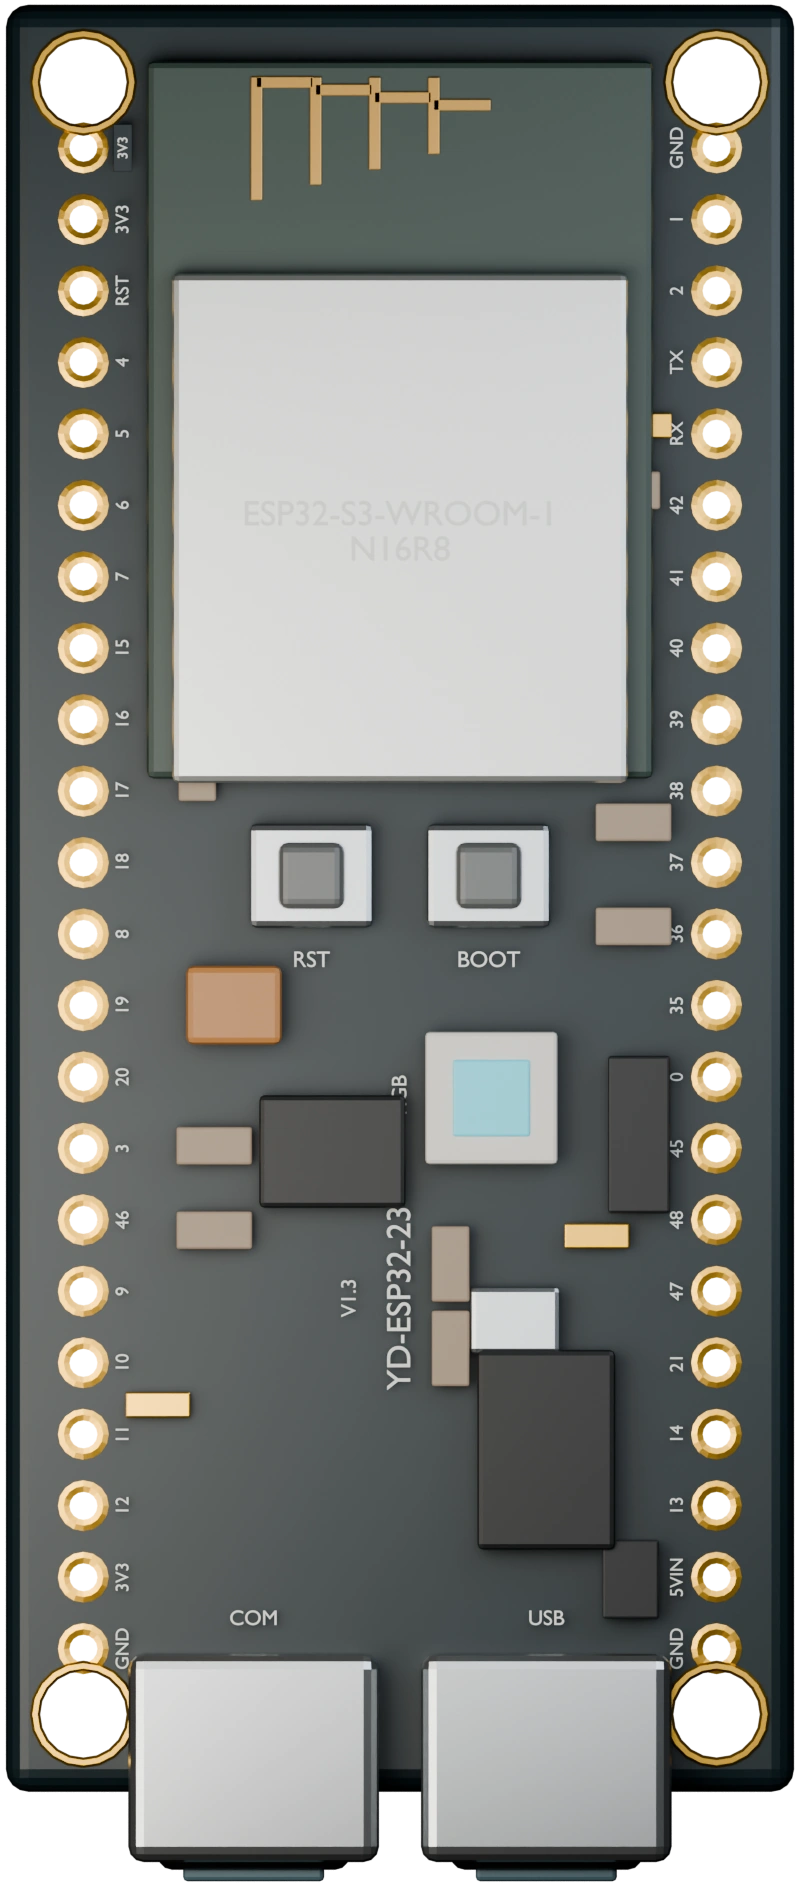
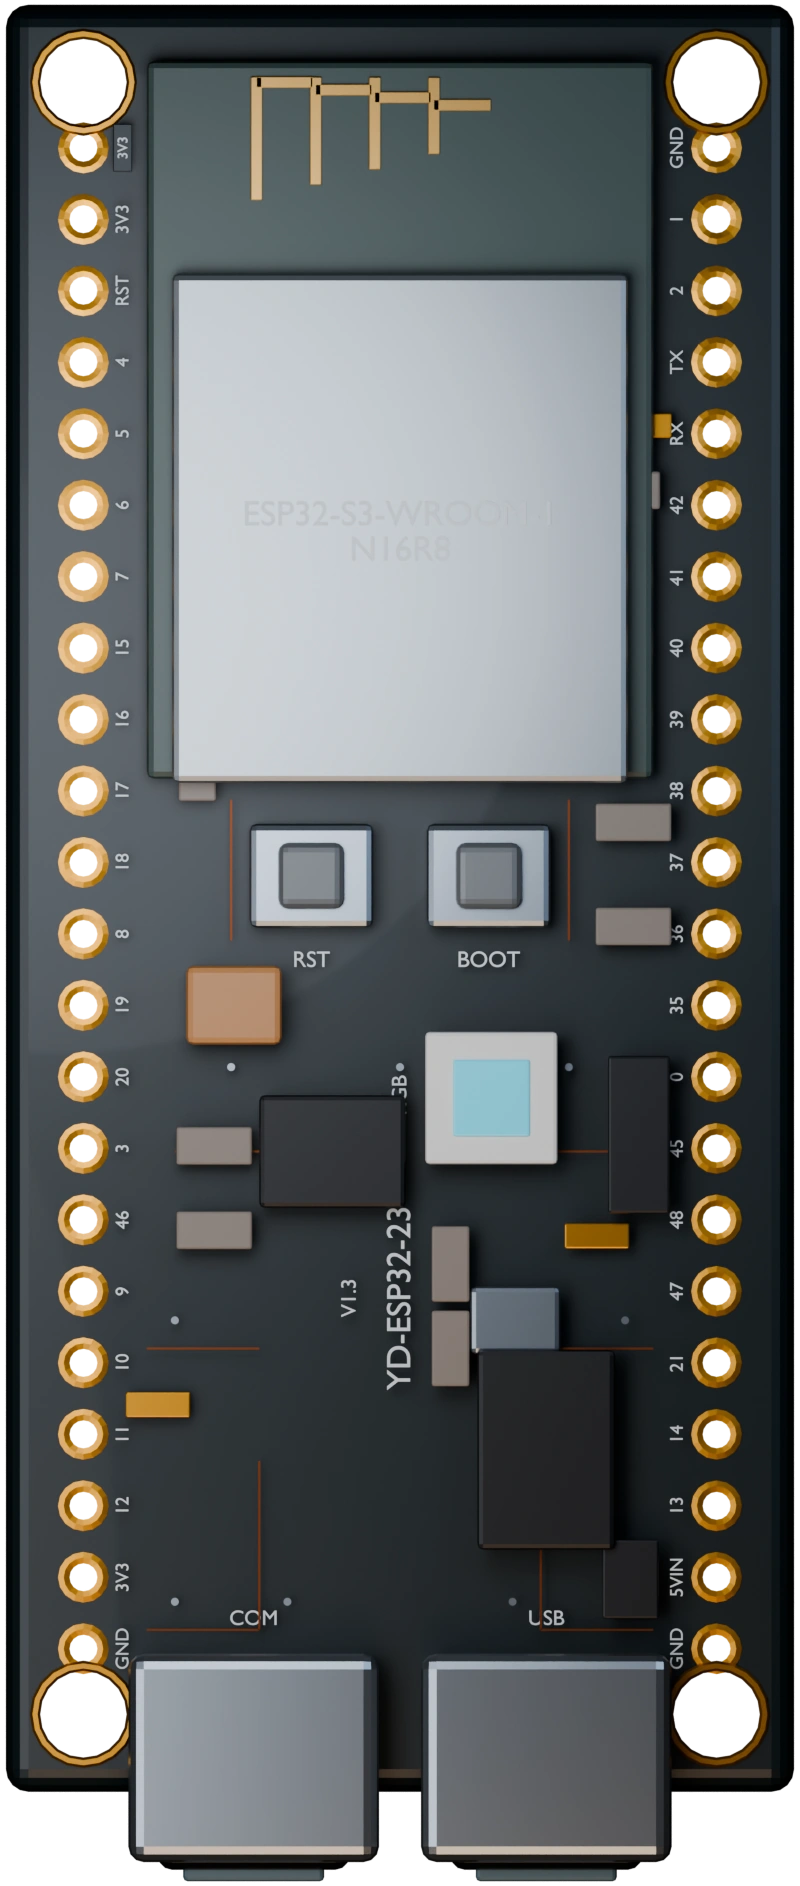
swap in the improved N16R8 and XIAO renders
Both re-renders move the rail labels clear of the plated holes, which
were clipping them — the XIAO showed "D" for D8/D9/D10 and "3V" for 3V3.
The ESP-32D and S3-DevKitC renders are unchanged and untouched.

The N16R8 package now carries pixel geometry projected from the model's
own 2.54 mm pad grid through the render camera, rather than detected from
pixels, so it replaces the values measured here: rail centres now land
symmetric to four decimal places and the USB mouth centre is 82 px from
where the shell's bottom edge had put it.

imageWidthMm is now derived identically for all four boards — visible
width over the render's alpha bounds — so relative sizes stay honest. The
XIAO moves onto that footing, and its profile dimensions are corrected to
Seeed's 21.0 x 17.8 mm; the stored 21 x 18 had the across-rails figure
rounded from the wrong axis.

diff --git a/src/components/BuildDiagram/PhysicalAssemblyDiagram.tsx b/src/components/BuildDiagram/PhysicalAssemblyDiagram.tsx
@@ -122,8 +122,11 @@ interface ControllerRenderSpec {
    *
    * This is what sizes the board on the sheet, so a XIAO and a Mega no longer
    * draw the same width on a diagram whose whole job is physical assembly.
-   * Derive it from the board's PCB width and the render's alpha bounds:
-   * `pcbWidthMm * imageWidthPx / alphaContentWidthPx`.
+   * Derive it the same way for every board so the relative sizes stay honest:
+   * `visibleWidthMm * imageWidthPx / alphaContentWidthPx`, where the visible
+   * width is the PCB's own width unless something overhangs it. All four
+   * renders crop to 790 of 800 px, so this is the board width plus the 10 px
+   * of transparent margin.
    */
   imageWidthMm: number
   /** Header geometry in source pixels: rail x, and first/last pad centre y. */
@@ -164,35 +167,33 @@ const CONTROLLER_SPECS: Record<string, ControllerRenderSpec> = {
     shortLabel: 'ESP32-S3 DevKitC-1',
   },
   // 7 + 7 rails on a 111.817px pitch, supplied with the render and checked
-  // here: pad rows land on real rings and the rail centres sum to exactly
-  // 800.0. 18.1725 mm comes from the 2.54 mm header pitch (800 / 44.0223
-  // px/mm), which also reproduces the stated 15.24 mm rail separation exactly.
+  // here: pad rows land on real rings and the rail centres sum to exactly 800.0.
   // The four expansion pads are on the underside and so have no top-down
   // position; they fall back to the generic terminal column.
   'seeed-xiao-esp32s3': {
     href: xiaoBoardRender,
-    sourceWidth: 800, sourceHeight: 1046, imageWidthMm: 18.1725,
+    sourceWidth: 800, sourceHeight: 1046, imageWidthMm: 18.1266,
     leftPinX: 64.5497, rightPinX: 735.4503, firstPinY: 134.943, lastPinY: 805.8435,
     pinsPerRail: 7, leftPrefix: 'left', rightPrefix: 'right',
     // This board has exactly one 3V3 and one GND, adjacent on the left rail.
     powerAnchors: { v3v3: 'left-5', ground: 'left-6' },
-    usbPoint: { x: 394, y: 1020 },
+    usbPoint: { x: 400, y: 1029.477 },
     shortLabel: 'XIAO ESP32S3',
   },
-  // 22 + 22 rails on a 71.457px pitch sharing rows, measured here (the package
-  // carried no pixel geometry): first pad centre y=147.47, last y=1648.07, rail
-  // centres symmetrised about the image at 83.25 / 716.75.
-  // 28.354 mm = 28 mm PCB over alpha bounds 5..794 of an 800px render.
+  // 22 + 22 rails on a 71.475px pitch sharing rows. Geometry is now projected
+  // from the model's own 2.54 mm pad grid through the render camera rather than
+  // detected from pixels, so it supersedes the values measured here earlier —
+  // the rail centres land symmetric to four decimal places (83.4285 + 716.5715).
   'generic-esp32-s3-n16r8-44pin-dual-usbc': {
     href: genericN16R8BoardRender,
-    sourceWidth: 800, sourceHeight: 1886, imageWidthMm: 28.354,
-    leftPinX: 83.25, rightPinX: 716.75, firstPinY: 147.47, lastPinY: 1648.07,
+    sourceWidth: 800, sourceHeight: 1886, imageWidthMm: 28.3544,
+    leftPinX: 83.4285, rightPinX: 716.5715, firstPinY: 147.7725, lastPinY: 1648.7433,
     pinsPerRail: 22, leftPrefix: 'left', rightPrefix: 'right',
     // 3V3 tops the left rail and GND ends the right, so the two stubs leave
     // opposite edges and opposite ends of the board.
     powerAnchors: { v3v3: 'left-1', ground: 'right-22' },
     // The COM port: the one this app's upload path drives.
-    usbPoint: { x: 246, y: 1840 },
+    usbPoint: { x: 253.674, y: 1757.925 },
     shortLabel: 'ESP32-S3 N16R8',
   },
   // 15 + 15 rails on a 72.367px pitch sharing rows, rail centres symmetric

diff --git a/src/build/boardProfiles.ts b/src/build/boardProfiles.ts
@@ -393,7 +393,8 @@ export const BOARD_PROFILES: PhysicalBoardProfile[] = [
     revision: 'manufacturer profile',
     targetFamilies: ['esp32-s3'],
     compatibleFqbns: ['esp32:esp32:esp32s3'],
-    dimensionsMm: { width: 21, height: 18 },
+    // Seeed's figures: 21.0 mm along the rails, 17.8 mm across them.
+    dimensionsMm: { width: 21, height: 17.8 },
     confidence: 'manufacturer-verified',
     moduleSilk: 'ESP32-S3',
     previewSvg: boardSvg('Seeed XIAO ESP32S3', '#7aa2ff', 'USB-C', 'Compact layout'),
